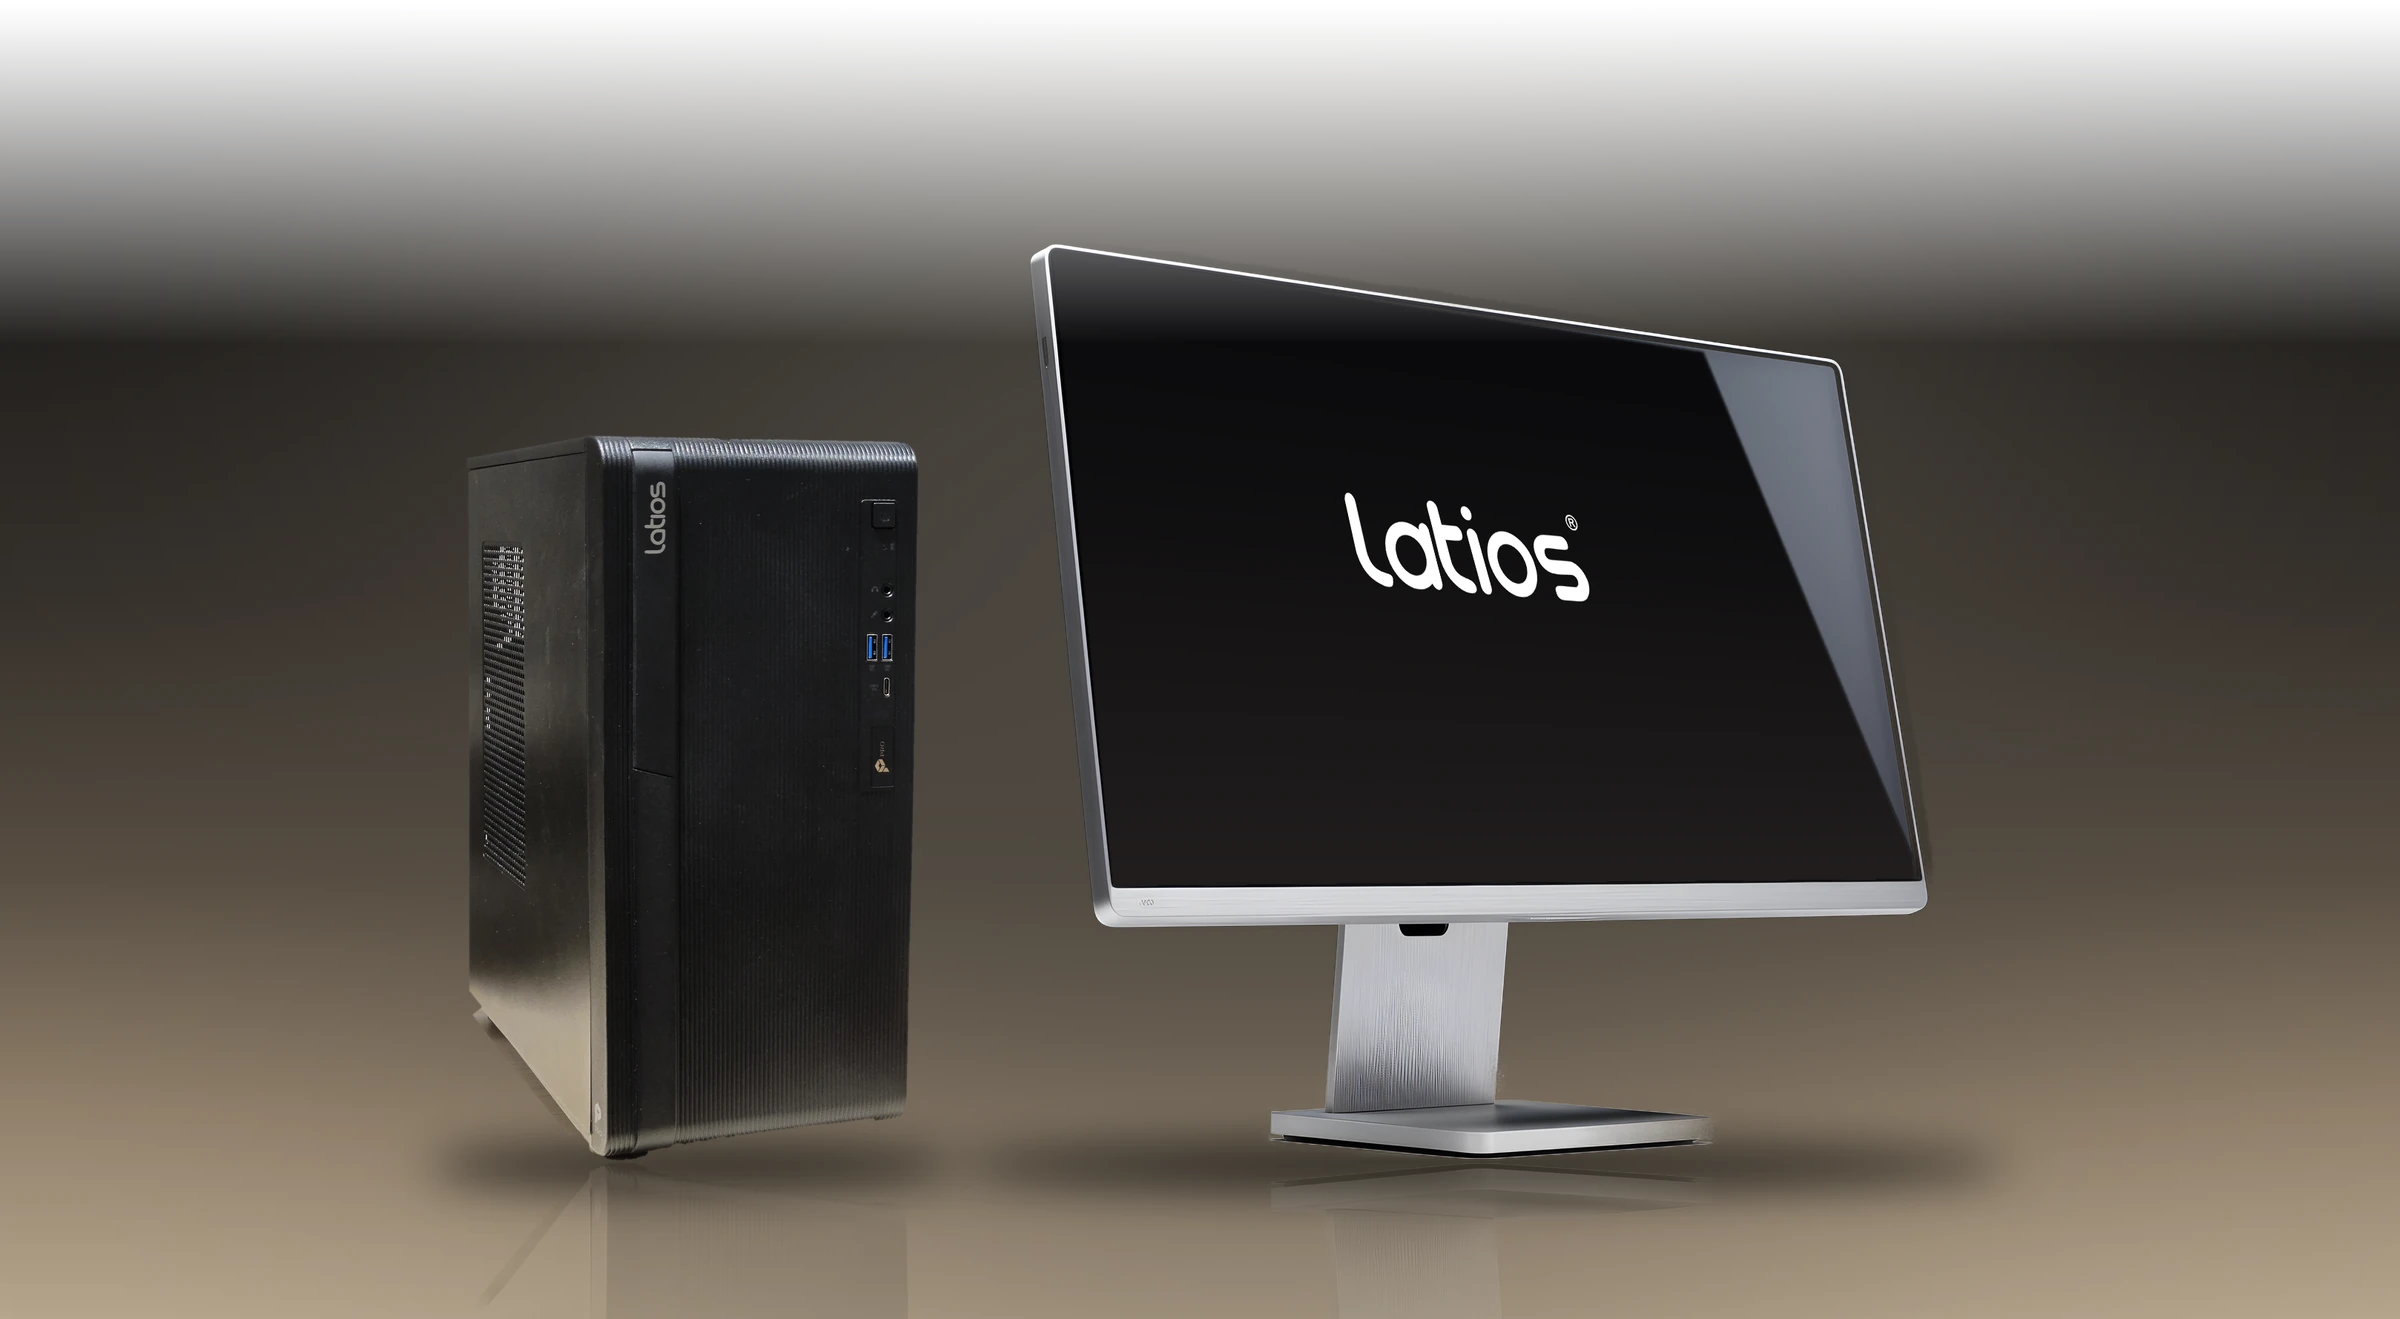
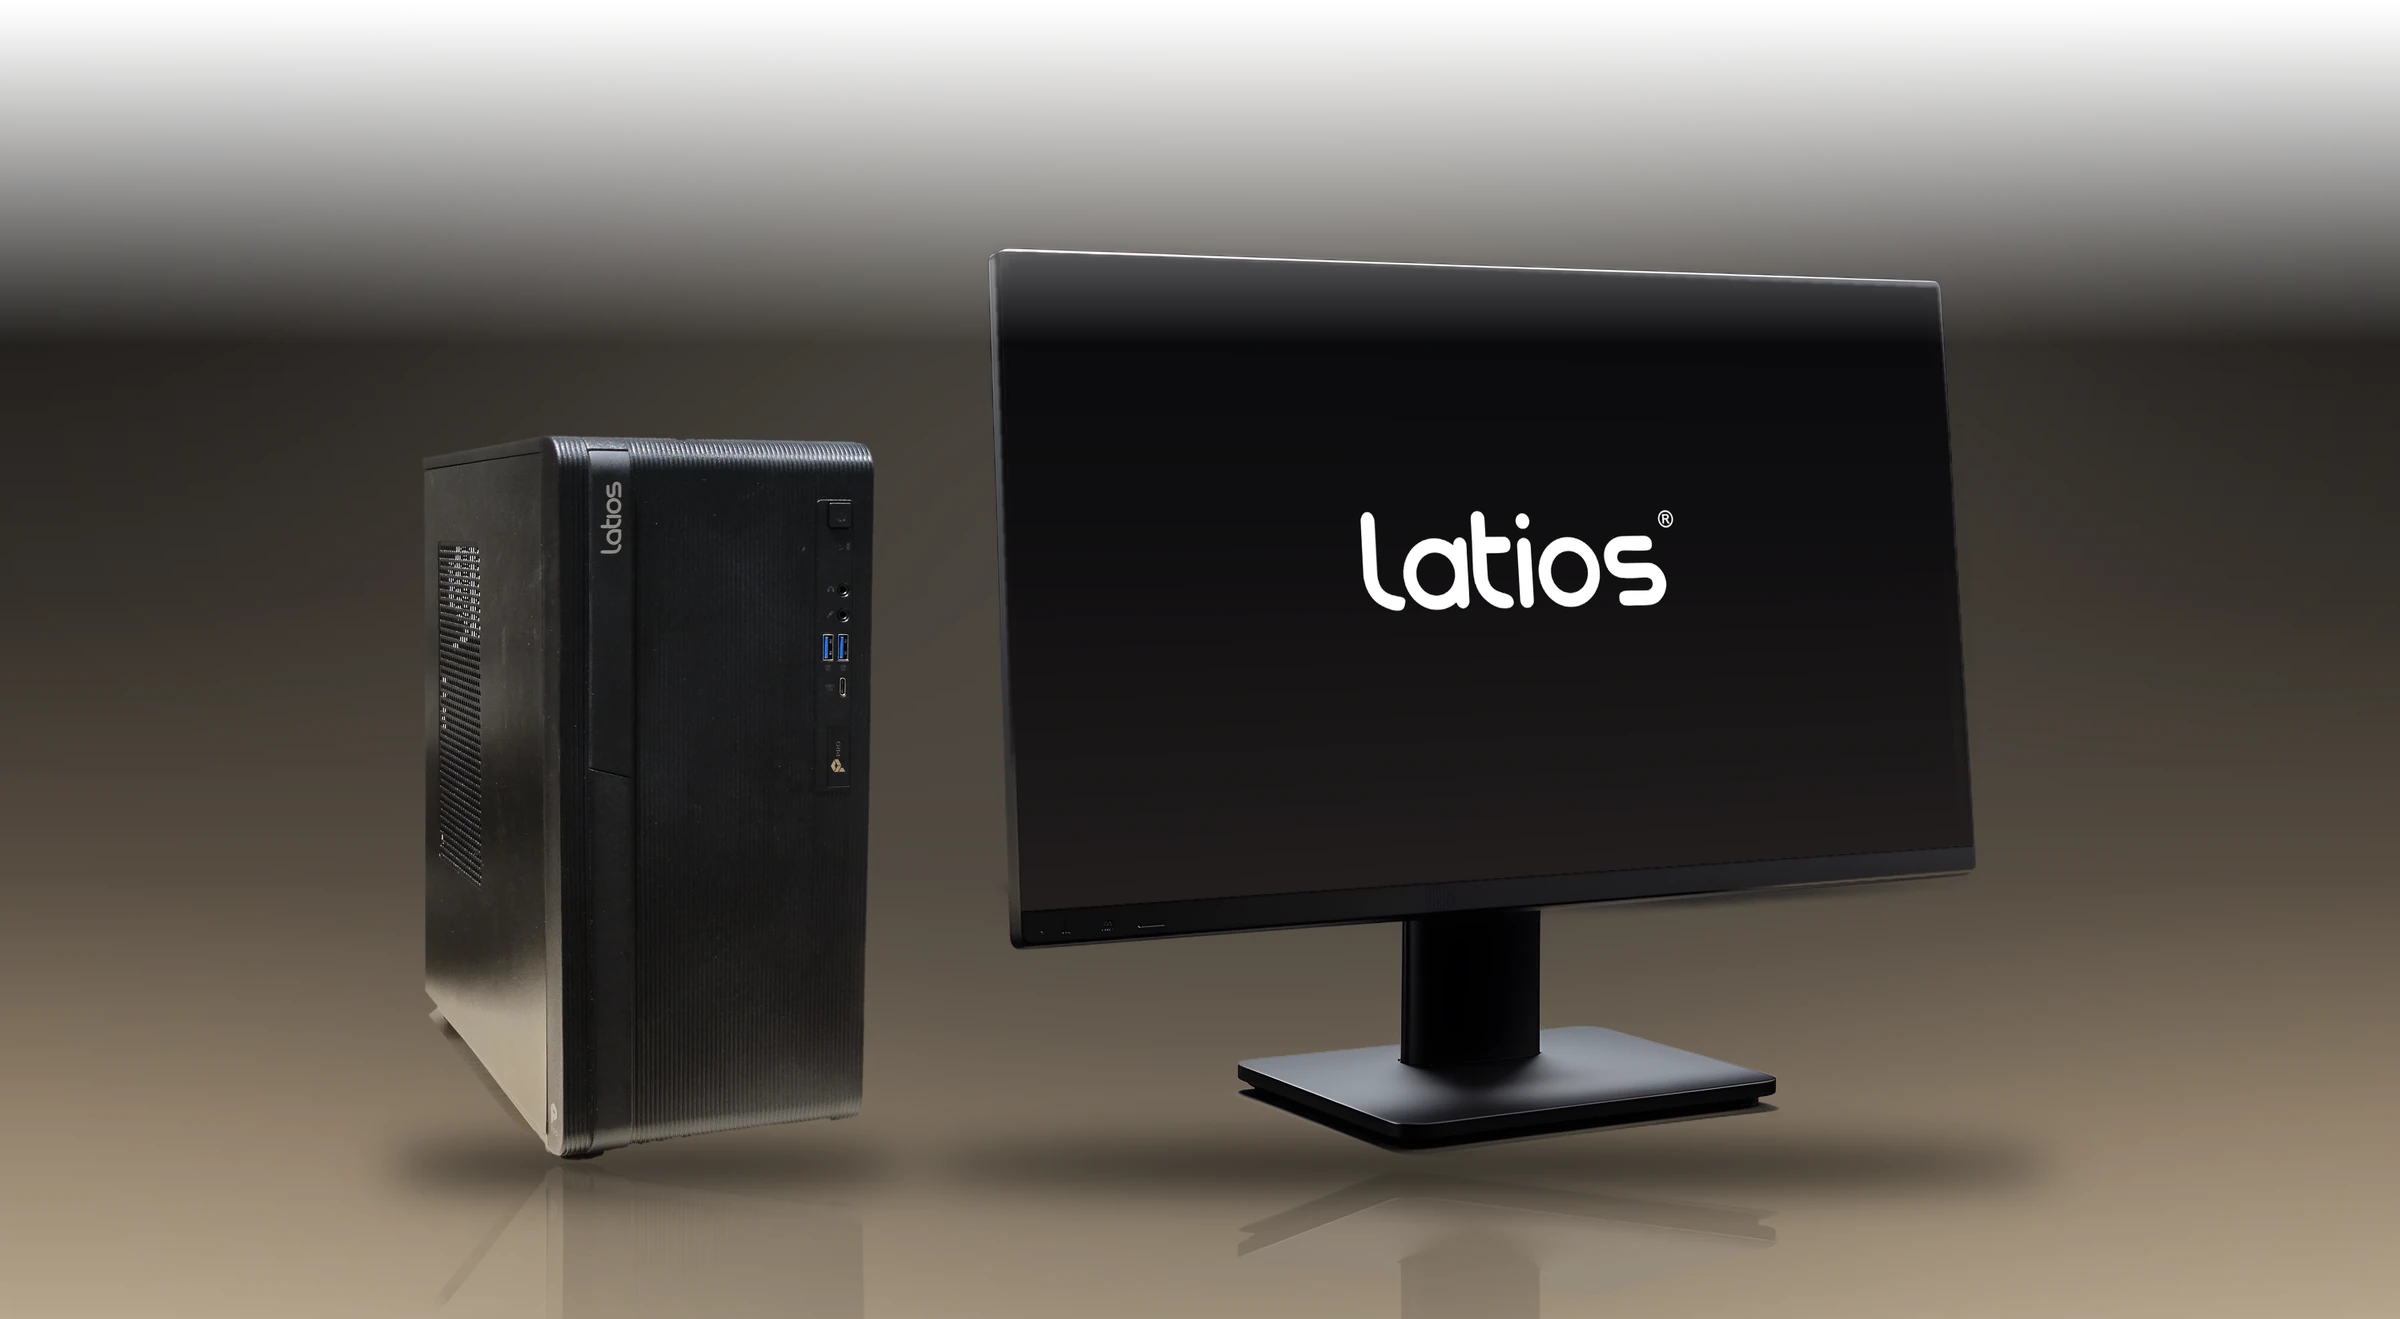
Build the display in black, and measure which way it faces
Two things were still wrong with the card.

The display was silver and the machine is black, so the two did not read as one
product family -- and a silver display next to a black tower is the kind of
mismatch that makes a composite look like a composite whatever else is right
about it. Rebuilt in black, with the silver terms in the negative.

That broke the screen detection, which is the more interesting half. It looked
for the largest DARK region, and that worked only while the display was silver:
a screen is the darkest thing on a silver monitor. On a black one the screen and
the bezel are one dark blob, and the wordmark would have been stretched across
the whole panel.

So it keys on flatness now, which holds whatever colour either part is. A screen
is uniform; a bezel carries its own edges and highlights. Eroding the flat mask
deletes the bezel, because a bezel is thin, and leaves the screen, because a
screen is not -- then the erosion is given back. The corners are also pushed out
3.5%, because the detected region stops just inside the glass and the remainder
showed as a lit wedge of the render's own reflection down one side.

The mirror is measured now rather than hardcoded. It has to be: a re-rolled
display faces whichever way it feels like, and this one came back turned the
opposite way to the silver one. Hardcoding the flip would have quietly put both
objects in the same perspective again -- the exact fault the previous commit
[…]

diff --git a/tools/image-processing/stage_am4_parts.py b/tools/image-processing/stage_am4_parts.py
@@ -391,29 +391,60 @@ def _persp(dst, w, h):
     return np.linalg.solve(np.array(A, float), np.array(B, float))
 
 
-def _screen(mon):
-    """Find the display's screen and put the real Latios wordmark on it.
+def _quad(mon):
+    """The screen's four corners, as (top-left, top-right, bottom-right, bottom-left).
 
-    The quad is measured off this render, not hardcoded: the screen is the
-    largest dark region inside the matte, and its corners are the extremes along
-    the two diagonals. A re-rolled monitor moves it, and this follows.
+    Keys on flatness, which holds whatever colour the display is. An earlier
+    version looked for the largest DARK region, which worked only while the
+    display was silver -- a screen is the darkest thing on a silver monitor.
+    Rebuilt in black to match the machine, screen and bezel became one dark blob
+    and the wordmark would have been stretched across the whole panel.
+
+    A screen is uniform; a bezel carries its own edges and highlights. Eroding
+    the flat mask deletes the bezel, because a bezel is thin, and leaves the
+    screen, because a screen is not -- then the erosion is given back.
     """
     W, H = mon.size
-    a = np.asarray(mon).astype(np.int16)
+    a = np.asarray(mon).astype(np.float32)
     inside = a[..., 3] > 200
-    dark = inside & (a[..., :3].max(axis=2) < 110)
-    lab, n = ndimage.label(dark)
-    if not n:
-        return mon
-    sizes = ndimage.sum(dark, lab, range(1, n + 1))
-    dark = lab == (int(np.argmax(sizes)) + 1)
+    lum = a[..., :3].max(axis=2)
 
-    ys, xs = np.nonzero(dark)
+    k = max(3, int(W * 0.006) | 1)
+    mean = ndimage.uniform_filter(lum, k)
+    var = ndimage.uniform_filter(lum * lum, k) - mean * mean
+    flat = inside & (var < 26.0)
+
+    grow = max(2, int(W * 0.013))
+    core = ndimage.binary_erosion(flat, np.ones((grow, grow), bool))
+    lab, n = ndimage.label(core)
+    if not n:
+        return None, inside
+    sizes = ndimage.sum(core, lab, range(1, n + 1))
+    core = lab == (int(np.argmax(sizes)) + 1)
+    screen = ndimage.binary_dilation(core, np.ones((grow, grow), bool)) & inside
+
+    ys, xs = np.nonzero(screen)
     ssum, sdif = xs + ys, xs - ys
-    quad = [(int(xs[ssum.argmin()]), int(ys[ssum.argmin()])),      # top left
-            (int(xs[sdif.argmax()]), int(ys[sdif.argmax()])),      # top right
-            (int(xs[ssum.argmax()]), int(ys[ssum.argmax()])),      # bottom right
-            (int(xs[sdif.argmin()]), int(ys[sdif.argmin()]))]      # bottom left
+    quad = [(int(xs[ssum.argmin()]), int(ys[ssum.argmin()])),
+            (int(xs[sdif.argmax()]), int(ys[sdif.argmax()])),
+            (int(xs[ssum.argmax()]), int(ys[ssum.argmax()])),
+            (int(xs[sdif.argmin()]), int(ys[sdif.argmin()]))]
+
+    # Push the corners out a little. The detected region stops just inside the
+    # glass, and the couple of per cent left over showed as a lit wedge of the
+    # render's own screen reflection down one side of an otherwise new screen.
+    cx = sum(x for x, _ in quad) / 4.0
+    cy = sum(y for _, y in quad) / 4.0
+    quad = [(int(cx + (x - cx) * 1.035), int(cy + (y - cy) * 1.035)) for x, y in quad]
+    return quad, inside
+
+
+def _screen(mon):
+    """Put the real Latios wordmark on the display's screen."""
+    W, H = mon.size
+    quad, inside = _quad(mon)
+    if quad is None:
+        return mon
 
     cw, ch = 1920, 1080
     content = Image.new("RGB", (cw, ch), (12, 12, 14))
@@ -430,9 +461,9 @@ def _screen(mon):
 
     warped = content.transform((W, H), Image.PERSPECTIVE, _persp(quad, cw, ch),
                                Image.BICUBIC)
-    # Fill the QUAD, not the dark mask that produced it. The mask stops at the
-    # render's own screen reflection, so compositing through it left the
-    # reflection showing as a smudge in the top left of an otherwise new screen.
+    # Fill the QUAD, not the detected region that produced it. That region stops
+    # at the render's own screen reflection, so compositing through it left the
+    # reflection showing as a smudge across an otherwise new screen.
     m = Image.new("L", (W, H), 0)
     ImageDraw.Draw(m).polygon(quad, fill=255)
     m = Image.composite(m, Image.new("L", (W, H), 0),
@@ -512,11 +543,24 @@ def desk_card():
         print("  skip desk-card (sources not ready)")
         return
 
-    # Mirror the display so it stands right of the camera axis, matching the
-    # tower photograph. Safe to mirror and nothing else here is: the bezel is
-    # deliberately unmarked, and the wordmark goes on AFTER the flip, so it
-    # reads the right way round.
-    mon = _screen(cutout(mon_src).transpose(Image.FLIP_LEFT_RIGHT))
+    # One camera, so the two objects must be turned consistently: a thing left of
+    # the lens shows its right side, a thing right of the lens shows its left.
+    # The tower photograph shows the front and the LEFT flank, so it stands left
+    # of the axis and the display has to stand right of it, which means the
+    # display's own left side must be the nearer one.
+    #
+    # Measured off the screen's corners rather than assumed, because a re-rolled
+    # display faces whichever way it feels like -- the silver one came back
+    # turned the opposite way to the black one, and hardcoding the flip would
+    # have quietly put both objects in the same perspective again. Flipping the
+    # display is safe and flipping the tower is not: the bezel is deliberately
+    # unmarked and the wordmark is pasted on afterwards, while the tower carries
+    # the Latios mark on its fascia.
+    mon = cutout(mon_src)
+    q, _ = _quad(mon)
+    if q is not None and (q[3][1] - q[0][1]) < (q[2][1] - q[1][1]):
+        mon = mon.transpose(Image.FLIP_LEFT_RIGHT)
+    mon = _screen(mon)
     tower = Image.open(tower_src).convert("RGBA")
 
     W, H = CARD

diff --git a/tools/image-processing/gen_am4.py b/tools/image-processing/gen_am4.py
@@ -204,11 +204,13 @@ T2I = {
         "text. " + AM4_PART),
     "monitor": ((1664, 928),
         "a single modern desktop computer monitor, a widescreen flat LCD display "
-        "standing on a slim brushed aluminium stand, seen from a low three-quarter "
+        "standing on a slim matte black stand, seen from a low three-quarter "
         "angle and turned slightly to the left so the screen faces the camera. Very "
-        "thin dark bezels on the top and both sides with a slightly deeper chin "
-        "along the bottom, a flat matte screen switched off, a narrow upright neck "
-        "and a flat rectangular base plate. One monitor and nothing else. Plain "
+        "thin matte black bezels on the top and both sides with a slightly deeper "
+        "black chin along the bottom, a flat matte screen switched off, a narrow "
+        "upright black neck and a flat black rectangular base plate. The whole "
+        "display is black, the same deep matte black as a desktop computer case. "
+        "One monitor and nothing else. Plain "
         "unmarked bezel with no text, no logo and no badge. " + AM4_PART),
     "cooler": ((1328, 1328),
         "a compact low-profile desktop processor air cooler seen from above at a "
@@ -245,7 +247,8 @@ JOB_NEG = {
                "thick block, cube, tall box, two objects",
     "part-hdd": ", open case, exposed circuit board, visible pcb, missing lid, "
                "open lid, lid lifted off, tall upright box, cube, two objects",
-    "monitor": ", curved screen, two monitors, monitor pair, television, "
+    "monitor": ", silver bezel, white bezel, aluminium frame, chrome, "
+               "curved screen, two monitors, monitor pair, television, "
                "laptop, all-in-one computer, keyboard, mouse, desk, table, "
                "wall, room, window, bright screen, wallpaper on screen, "
                "user interface, icons, image on the display, bezel logo, "
